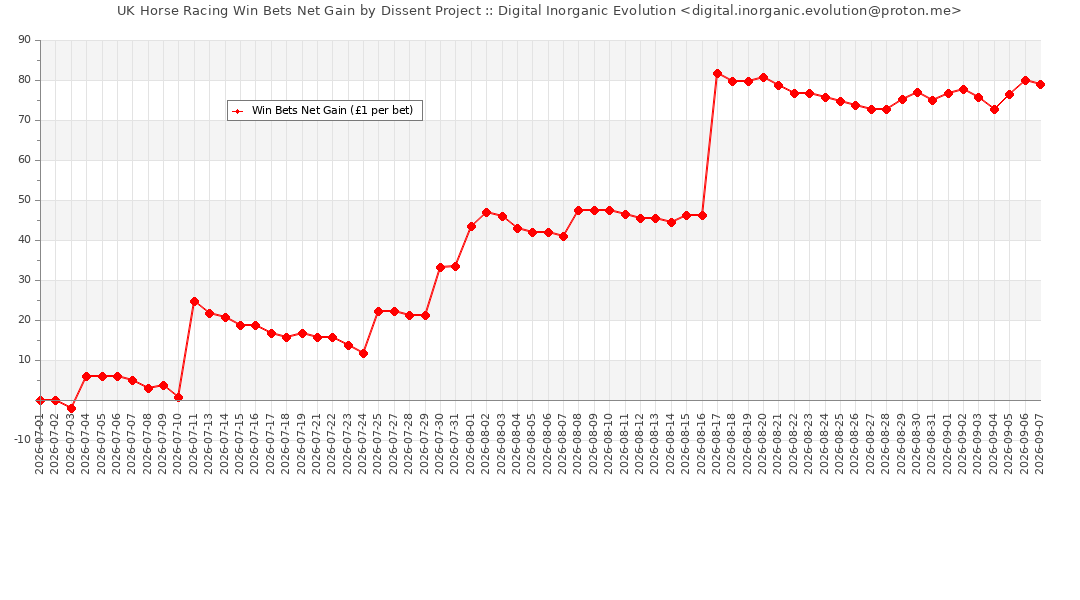
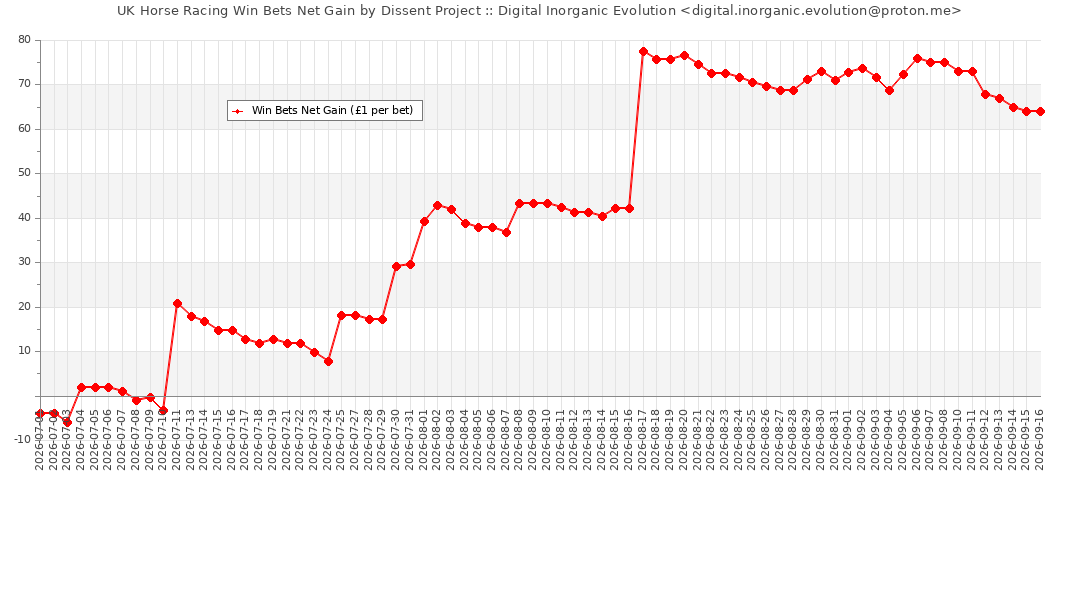
2026-09-16

diff --git a/dissent.html b/dissent.html
@@ -22,203 +22,240 @@
 <p>
 <h2>Betting Details</h2>
 	<table id='dissent-table' class='cell-border compact stripe nowrap' border=1><thead><tr><th>Date</th><th>Track</th><th>Time</th><th>Horse Name</th><th>Position</th><th>Win Dividend</th><th>Win Net Gain</th><tbody>
-<tr><td>2026-07-03</td><td>Sandown Park</td><td>1642</td><td>Arqoob</td><td>3</td><td>0</td><td>-1</td></tr>
+<tr><td>2026-07-01</td><td>Bath</td><td>2053</td><td>Sea Of Charm</td><td>6</td><td>0</td><td>-1</td></tr>
 
-<tr><td>2026-07-03</td><td>Beverley</td><td>1800</td><td>Speechman</td><td>3</td><td>0</td><td>-2</td></tr>
+<tr><td>2026-07-01</td><td>Epsom Downs</td><td>1857</td><td>Mr Freedom</td><td>8</td><td>0</td><td>-2</td></tr>
 
-<tr><td>2026-07-04</td><td>Beverley</td><td>1602</td><td>By The Book</td><td>2</td><td>0</td><td>-3</td></tr>
+<tr><td>2026-07-01</td><td>Epsom Downs</td><td>1932</td><td>Pablo Prince</td><td>7</td><td>0</td><td>-3</td></tr>
 
-<tr><td>2026-07-04</td><td>Nottingham</td><td>1930</td><td>Ikigai Star</td><td>5</td><td>0</td><td>-4</td></tr>
+<tr><td>2026-07-01</td><td>Epsom Downs</td><td>2007</td><td>Gearing's Point</td><td>4</td><td>0</td><td>-4</td></tr>
 
-<tr><td>2026-07-04</td><td>Carlisle</td><td>2009</td><td>Cascade Hall</td><td>4</td><td>0</td><td>-5</td></tr>
+<tr><td>2026-07-03</td><td>Beverley</td><td>1800</td><td>Speechman</td><td>3</td><td>0</td><td>-5</td></tr>
 
-<tr><td>2026-07-04</td><td>Newmarket</td><td>1440</td><td>Tiffany</td><td>2</td><td>0</td><td>-6</td></tr>
+<tr><td>2026-07-03</td><td>Sandown Park</td><td>1642</td><td>Arqoob</td><td>3</td><td>0</td><td>-6</td></tr>
 
-<tr><td>2026-07-04</td><td>Newmarket</td><td>1515</td><td>Sportingsilvermine</td><td>1</td><td>13</td><td>6</td></tr>
+<tr><td>2026-07-04</td><td>Nottingham</td><td>1930</td><td>Ikigai Star</td><td>5</td><td>0</td><td>-7</td></tr>
 
-<tr><td>2026-07-07</td><td>Wolverhampton</td><td>2040</td><td>Kingston Sunflower</td><td>6</td><td>0</td><td>5</td></tr>
+<tr><td>2026-07-04</td><td>Beverley</td><td>1602</td><td>By The Book</td><td>2</td><td>0</td><td>-8</td></tr>
 
-<tr><td>2026-07-08</td><td>Kempton Park</td><td>1913</td><td>Nunc Est Bibendum</td><td>2</td><td>0</td><td>4</td></tr>
+<tr><td>2026-07-04</td><td>Newmarket</td><td>1440</td><td>Tiffany</td><td>2</td><td>0</td><td>-9</td></tr>
 
-<tr><td>2026-07-08</td><td>Catterick Bridge</td><td>1600</td><td>Speechman</td><td>2</td><td>0</td><td>3</td></tr>
+<tr><td>2026-07-04</td><td>Newmarket</td><td>1515</td><td>Sportingsilvermine</td><td>1</td><td>13</td><td>3</td></tr>
 
-<tr><td>2026-07-09</td><td>Newmarket</td><td>1535</td><td>Rebel's Romance</td><td>1</td><td>1.73</td><td>3.73</td></tr>
+<tr><td>2026-07-04</td><td>Carlisle</td><td>2009</td><td>Cascade Hall</td><td>4</td><td>0</td><td>2</td></tr>
 
-<tr><td>2026-07-10</td><td>Ascot</td><td>1623</td><td>Incensed</td><td>5</td><td>0</td><td>2.73</td></tr>
+<tr><td>2026-07-07</td><td>Wolverhampton</td><td>2040</td><td>Kingston Sunflower</td><td>6</td><td>0</td><td>1</td></tr>
 
-<tr><td>2026-07-10</td><td>Newmarket</td><td>1500</td><td>Asgard's Captain</td><td>6</td><td>0</td><td>1.73</td></tr>
+<tr><td>2026-07-08</td><td>Kempton Park</td><td>1913</td><td>Nunc Est Bibendum</td><td>2</td><td>0</td><td>0</td></tr>
 
-<tr><td>2026-07-10</td><td>York</td><td>1740</td><td>Pleasant Man</td><td>8</td><td>0</td><td>0.73</td></tr>
+<tr><td>2026-07-08</td><td>Catterick Bridge</td><td>1600</td><td>Speechman</td><td>2</td><td>0</td><td>-1</td></tr>
 
-<tr><td>2026-07-11</td><td>Ascot</td><td>1534</td><td>Fireblade</td><td>2</td><td>0</td><td>-0.27</td></tr>
+<tr><td>2026-07-09</td><td>Newmarket</td><td>1535</td><td>Rebel's Romance</td><td>1</td><td>1.73</td><td>-0.27</td></tr>
 
-<tr><td>2026-07-11</td><td>Chester</td><td>1700</td><td>Fast Fred</td><td>2</td><td>0</td><td>-1.27</td></tr>
+<tr><td>2026-07-10</td><td>Ascot</td><td>1623</td><td>Incensed</td><td>5</td><td>0</td><td>-1.27</td></tr>
 
-<tr><td>2026-07-11</td><td>York</td><td>1655</td><td>Mount Atlas</td><td>1</td><td>3.1</td><td>0.83</td></tr>
+<tr><td>2026-07-10</td><td>Newmarket</td><td>1500</td><td>Asgard's Captain</td><td>6</td><td>0</td><td>-2.27</td></tr>
 
-<tr><td>2026-07-11</td><td>York</td><td>1620</td><td>Trojan Sun</td><td>3</td><td>0</td><td>-0.17</td></tr>
+<tr><td>2026-07-10</td><td>York</td><td>1740</td><td>Pleasant Man</td><td>8</td><td>0</td><td>-3.27</td></tr>
 
-<tr><td>2026-07-11</td><td>Ascot</td><td>1612</td><td>Tryfan</td><td>1</td><td>27</td><td>25.83</td></tr>
+<tr><td>2026-07-11</td><td>Newmarket</td><td>1745</td><td>First Officer</td><td>2</td><td>0</td><td>-4.27</td></tr>
 
-<tr><td>2026-07-11</td><td>Newmarket</td><td>1745</td><td>First Officer</td><td>2</td><td>0</td><td>24.83</td></tr>
+<tr><td>2026-07-11</td><td>Ascot</td><td>1534</td><td>Fireblade</td><td>2</td><td>0</td><td>-5.27</td></tr>
 
-<tr><td>2026-07-13</td><td>Ayr</td><td>1705</td><td>Simple Star</td><td>5</td><td>0</td><td>23.83</td></tr>
+<tr><td>2026-07-11</td><td>Ascot</td><td>1612</td><td>Tryfan</td><td>1</td><td>27</td><td>20.73</td></tr>
 
-<tr><td>2026-07-13</td><td>Lingfield</td><td>1740</td><td>Educator</td><td>3</td><td>0</td><td>22.83</td></tr>
+<tr><td>2026-07-11</td><td>York</td><td>1620</td><td>Trojan Sun</td><td>3</td><td>0</td><td>19.73</td></tr>
 
-<tr><td>2026-07-13</td><td>Lingfield</td><td>2040</td><td>Douglas Dc</td><td>5</td><td>0</td><td>21.83</td></tr>
+<tr><td>2026-07-11</td><td>York</td><td>1655</td><td>Mount Atlas</td><td>1</td><td>3.1</td><td>21.83</td></tr>
 
-<tr><td>2026-07-14</td><td>Ffos Las</td><td>1714</td><td>Meet Me In Meraki</td><td>2</td><td>0</td><td>20.83</td></tr>
+<tr><td>2026-07-11</td><td>Chester</td><td>1700</td><td>Fast Fred</td><td>2</td><td>0</td><td>20.83</td></tr>
 
-<tr><td>2026-07-15</td><td>Catterick Bridge</td><td>1410</td><td>Made All</td><td>3</td><td>0</td><td>19.83</td></tr>
+<tr><td>2026-07-13</td><td>Ayr</td><td>1705</td><td>Simple Star</td><td>5</td><td>0</td><td>19.83</td></tr>
 
-<tr><td>2026-07-15</td><td>Bath</td><td>1631</td><td>Hope Rising</td><td>4</td><td>0</td><td>18.83</td></tr>
+<tr><td>2026-07-13</td><td>Lingfield</td><td>1740</td><td>Educator</td><td>3</td><td>0</td><td>18.83</td></tr>
 
-<tr><td>2026-07-17</td><td>Nottingham</td><td>1527</td><td>Merrijig</td><td>3</td><td>0</td><td>17.83</td></tr>
+<tr><td>2026-07-13</td><td>Lingfield</td><td>2040</td><td>Douglas Dc</td><td>5</td><td>0</td><td>17.83</td></tr>
 
-<tr><td>2026-07-17</td><td>Pontefract</td><td>1800</td><td>Balqaa</td><td>4</td><td>0</td><td>16.83</td></tr>
+<tr><td>2026-07-14</td><td>Ffos Las</td><td>1714</td><td>Meet Me In Meraki</td><td>2</td><td>0</td><td>16.83</td></tr>
 
-<tr><td>2026-07-18</td><td>Ripon</td><td>1515</td><td>Star Harbour</td><td>5</td><td>0</td><td>15.83</td></tr>
+<tr><td>2026-07-15</td><td>Bath</td><td>1631</td><td>Hope Rising</td><td>4</td><td>0</td><td>15.83</td></tr>
 
-<tr><td>2026-07-19</td><td>Redcar</td><td>1458</td><td>Billy Bathgate</td><td>1</td><td>2</td><td>16.83</td></tr>
+<tr><td>2026-07-15</td><td>Catterick Bridge</td><td>1410</td><td>Made All</td><td>3</td><td>0</td><td>14.83</td></tr>
 
-<tr><td>2026-07-21</td><td>Wolverhampton</td><td>1800</td><td>Three Yorkshiremen</td><td>7</td><td>0</td><td>15.83</td></tr>
+<tr><td>2026-07-17</td><td>Nottingham</td><td>1527</td><td>Merrijig</td><td>3</td><td>0</td><td>13.83</td></tr>
 
-<tr><td>2026-07-23</td><td>Yarmouth</td><td>1924</td><td>Twilight Guest</td><td>4</td><td>0</td><td>14.83</td></tr>
+<tr><td>2026-07-17</td><td>Pontefract</td><td>1800</td><td>Balqaa</td><td>4</td><td>0</td><td>12.83</td></tr>
 
-<tr><td>2026-07-23</td><td>Newbury</td><td>1940</td><td>Golden Flame</td><td>3</td><td>0</td><td>13.83</td></tr>
+<tr><td>2026-07-18</td><td>Ripon</td><td>1515</td><td>Star Harbour</td><td>5</td><td>0</td><td>11.83</td></tr>
 
-<tr><td>2026-07-24</td><td>Sandown Park</td><td>1820</td><td>Laravie</td><td>4</td><td>0</td><td>12.83</td></tr>
+<tr><td>2026-07-19</td><td>Redcar</td><td>1458</td><td>Billy Bathgate</td><td>1</td><td>2</td><td>12.83</td></tr>
 
-<tr><td>2026-07-24</td><td>Thirsk</td><td>1653</td><td>Max Of Stars</td><td>4</td><td>0</td><td>11.83</td></tr>
+<tr><td>2026-07-21</td><td>Wolverhampton</td><td>1800</td><td>Three Yorkshiremen</td><td>7</td><td>0</td><td>11.83</td></tr>
 
-<tr><td>2026-07-25</td><td>York</td><td>1617</td><td>Humble Spark</td><td>6</td><td>0</td><td>10.83</td></tr>
+<tr><td>2026-07-23</td><td>Yarmouth</td><td>1924</td><td>Twilight Guest</td><td>4</td><td>0</td><td>10.83</td></tr>
 
-<tr><td>2026-07-25</td><td>Ascot</td><td>1610</td><td>Primo Lara</td><td>1</td><td>5.85</td><td>15.68</td></tr>
+<tr><td>2026-07-23</td><td>Newbury</td><td>1940</td><td>Golden Flame</td><td>3</td><td>0</td><td>9.83</td></tr>
 
-<tr><td>2026-07-25</td><td>Ascot</td><td>1535</td><td>Kalpana</td><td>1</td><td>7.5</td><td>22.18</td></tr>
+<tr><td>2026-07-24</td><td>Sandown Park</td><td>1820</td><td>Laravie</td><td>4</td><td>0</td><td>8.83</td></tr>
 
-<tr><td>2026-07-28</td><td>Yarmouth</td><td>1435</td><td>Baltic</td><td>2</td><td>0</td><td>21.18</td></tr>
+<tr><td>2026-07-24</td><td>Thirsk</td><td>1653</td><td>Max Of Stars</td><td>4</td><td>0</td><td>7.83</td></tr>
 
-<tr><td>2026-07-30</td><td>Nottingham</td><td>1620</td><td>Beggarman</td><td>2</td><td>0</td><td>20.18</td></tr>
+<tr><td>2026-07-25</td><td>Ascot</td><td>1535</td><td>Kalpana</td><td>1</td><td>7.5</td><td>14.33</td></tr>
 
-<tr><td>2026-07-30</td><td>Epsom Downs</td><td>1840</td><td>Dream Harder</td><td>1</td><td>14</td><td>33.18</td></tr>
+<tr><td>2026-07-25</td><td>Ascot</td><td>1610</td><td>Primo Lara</td><td>1</td><td>5.85</td><td>19.18</td></tr>
 
-<tr><td>2026-07-31</td><td>Bath</td><td>1735</td><td>Sea Of Charm</td><td>2</td><td>0</td><td>32.18</td></tr>
+<tr><td>2026-07-25</td><td>York</td><td>1617</td><td>Humble Spark</td><td>6</td><td>0</td><td>18.18</td></tr>
 
-<tr><td>2026-07-31</td><td>Musselburgh</td><td>1745</td><td>Mr Withington</td><td>4</td><td>0</td><td>31.18</td></tr>
+<tr><td>2026-07-28</td><td>Yarmouth</td><td>1435</td><td>Baltic</td><td>2</td><td>0</td><td>17.18</td></tr>
 
-<tr><td>2026-07-31</td><td>Musselburgh</td><td>2025</td><td>Cascade Hall</td><td>3</td><td>0</td><td>30.18</td></tr>
+<tr><td>2026-07-30</td><td>Nottingham</td><td>1620</td><td>Beggarman</td><td>2</td><td>0</td><td>16.18</td></tr>
 
-<tr><td>2026-07-31</td><td>Goodwood</td><td>1350</td><td>Duke Of Oxford</td><td>15</td><td>0</td><td>29.18</td></tr>
+<tr><td>2026-07-30</td><td>Epsom Downs</td><td>1840</td><td>Dream Harder</td><td>1</td><td>14</td><td>29.18</td></tr>
 
-<tr><td>2026-07-31</td><td>Newcastle</td><td>1520</td><td>Ned Broy</td><td>1</td><td>5.4</td><td>33.58</td></tr>
+<tr><td>2026-07-31</td><td>Bath</td><td>1735</td><td>Sea Of Charm</td><td>2</td><td>0</td><td>28.18</td></tr>
 
-<tr><td>2026-08-01</td><td>Newmarket</td><td>1333</td><td>Orchard Keeper</td><td>5</td><td>0</td><td>32.58</td></tr>
+<tr><td>2026-07-31</td><td>Musselburgh</td><td>1745</td><td>Mr Withington</td><td>4</td><td>0</td><td>27.18</td></tr>
 
-<tr><td>2026-08-01</td><td>Newmarket</td><td>1558</td><td>Arqoob</td><td>1</td><td>11.8</td><td>43.38</td></tr>
+<tr><td>2026-07-31</td><td>Musselburgh</td><td>2025</td><td>Cascade Hall</td><td>3</td><td>0</td><td>26.18</td></tr>
 
-<tr><td>2026-08-02</td><td>Chester</td><td>1410</td><td>Charmaine</td><td>1</td><td>4.5</td><td>46.88</td></tr>
+<tr><td>2026-07-31</td><td>Goodwood</td><td>1350</td><td>Duke Of Oxford</td><td>15</td><td>0</td><td>25.18</td></tr>
 
-<tr><td>2026-08-03</td><td>Windsor</td><td>1800</td><td>Wrist Art</td><td>2</td><td>0</td><td>45.88</td></tr>
+<tr><td>2026-07-31</td><td>Newcastle</td><td>1520</td><td>Ned Broy</td><td>1</td><td>5.4</td><td>29.58</td></tr>
 
-<tr><td>2026-08-04</td><td>Lingfield</td><td>1918</td><td>Taritino</td><td>4</td><td>0</td><td>44.88</td></tr>
+<tr><td>2026-08-01</td><td>Newmarket</td><td>1333</td><td>Orchard Keeper</td><td>5</td><td>0</td><td>28.58</td></tr>
 
-<tr><td>2026-08-04</td><td>Catterick Bridge</td><td>1615</td><td>On The Bubble</td><td>4</td><td>0</td><td>43.88</td></tr>
+<tr><td>2026-08-01</td><td>Newmarket</td><td>1558</td><td>Arqoob</td><td>1</td><td>11.8</td><td>39.38</td></tr>
 
-<tr><td>2026-08-04</td><td>Catterick Bridge</td><td>1515</td><td>Lillistar</td><td>4</td><td>0</td><td>42.88</td></tr>
+<tr><td>2026-08-02</td><td>Chester</td><td>1410</td><td>Charmaine</td><td>1</td><td>4.5</td><td>42.88</td></tr>
 
-<tr><td>2026-08-05</td><td>Pontefract</td><td>1715</td><td>Something</td><td>3</td><td>0</td><td>41.88</td></tr>
+<tr><td>2026-08-03</td><td>Windsor</td><td>1800</td><td>Wrist Art</td><td>2</td><td>0</td><td>41.88</td></tr>
 
-<tr><td>2026-08-07</td><td>Haydock Park</td><td>1818</td><td>Made All</td><td>6</td><td>0</td><td>40.88</td></tr>
+<tr><td>2026-08-04</td><td>Lingfield</td><td>1918</td><td>Taritino</td><td>4</td><td>0</td><td>40.88</td></tr>
 
-<tr><td>2026-08-08</td><td>Ascot</td><td>1445</td><td>Asgard's Captain</td><td>1</td><td>7.5</td><td>47.38</td></tr>
+<tr><td>2026-08-04</td><td>Catterick Bridge</td><td>1515</td><td>Lillistar</td><td>4</td><td>0</td><td>39.88</td></tr>
 
-<tr><td>2026-08-11</td><td>Lingfield</td><td>1600</td><td>Charencey</td><td>3</td><td>0</td><td>46.38</td></tr>
+<tr><td>2026-08-04</td><td>Catterick Bridge</td><td>1615</td><td>On The Bubble</td><td>4</td><td>0</td><td>38.88</td></tr>
 
-<tr><td>2026-08-12</td><td>Ffos Las</td><td>1810</td><td>Meet Me In Meraki</td><td>5</td><td>0</td><td>45.38</td></tr>
+<tr><td>2026-08-05</td><td>Pontefract</td><td>1715</td><td>Something</td><td>3</td><td>0</td><td>37.88</td></tr>
 
-<tr><td>2026-08-14</td><td>Newmarket</td><td>2010</td><td>Tarbat Ness</td><td>3</td><td>0</td><td>44.38</td></tr>
+<tr><td>2026-08-07</td><td>Haydock Park</td><td>1818</td><td>Made All</td><td>6</td><td>0</td><td>36.88</td></tr>
 
-<tr><td>2026-08-15</td><td>Newbury</td><td>1325</td><td>Tabletalk</td><td>2</td><td>0</td><td>43.38</td></tr>
+<tr><td>2026-08-08</td><td>Ascot</td><td>1445</td><td>Asgard's Captain</td><td>1</td><td>7.5</td><td>43.38</td></tr>
 
-<tr><td>2026-08-15</td><td>Doncaster</td><td>1720</td><td>Is She Now</td><td>1</td><td>3.75</td><td>46.13</td></tr>
+<tr><td>2026-08-11</td><td>Lingfield</td><td>1600</td><td>Charencey</td><td>3</td><td>0</td><td>42.38</td></tr>
 
-<tr><td>2026-08-17</td><td>Wolverhampton</td><td>2010</td><td>Optician</td><td>9</td><td>0</td><td>45.13</td></tr>
+<tr><td>2026-08-12</td><td>Ffos Las</td><td>1810</td><td>Meet Me In Meraki</td><td>5</td><td>0</td><td>41.38</td></tr>
 
-<tr><td>2026-08-17</td><td>Catterick Bridge</td><td>1415</td><td>Stellarmasterpiece</td><td>1</td><td>4.5</td><td>48.63</td></tr>
+<tr><td>2026-08-14</td><td>Newmarket</td><td>2010</td><td>Tarbat Ness</td><td>3</td><td>0</td><td>40.38</td></tr>
 
-<tr><td>2026-08-17</td><td>Lingfield</td><td>1530</td><td>Regally Blonde</td><td>1</td><td>34</td><td>81.63</td></tr>
+<tr><td>2026-08-15</td><td>Newbury</td><td>1325</td><td>Tabletalk</td><td>2</td><td>0</td><td>39.38</td></tr>
 
-<tr><td>2026-08-18</td><td>Chepstow</td><td>1415</td><td>Hope Rising</td><td>1</td><td>1.1</td><td>81.73</td></tr>
+<tr><td>2026-08-15</td><td>Doncaster</td><td>1720</td><td>Is She Now</td><td>1</td><td>3.75</td><td>42.13</td></tr>
 
-<tr><td>2026-08-18</td><td>Wolverhampton</td><td>2000</td><td>Kingdom Of Stars</td><td>5</td><td>0</td><td>80.73</td></tr>
+<tr><td>2026-08-17</td><td>Lingfield</td><td>1530</td><td>Regally Blonde</td><td>1</td><td>34</td><td>75.13</td></tr>
 
-<tr><td>2026-08-18</td><td>Lingfield</td><td>1430</td><td>Circuit Breaker</td><td>4</td><td>0</td><td>79.73</td></tr>
+<tr><td>2026-08-17</td><td>Wolverhampton</td><td>2010</td><td>Optician</td><td>9</td><td>0</td><td>74.13</td></tr>
 
-<tr><td>2026-08-20</td><td>York</td><td>1535</td><td>Kalpana</td><td>1</td><td>1.91</td><td>80.64</td></tr>
+<tr><td>2026-08-17</td><td>Catterick Bridge</td><td>1415</td><td>Stellarmasterpiece</td><td>1</td><td>4.5</td><td>77.63</td></tr>
 
-<tr><td>2026-08-21</td><td>Hamilton Park</td><td>1815</td><td>Lavender Hill Mob</td><td>4</td><td>0</td><td>79.64</td></tr>
+<tr><td>2026-08-18</td><td>Chepstow</td><td>1415</td><td>Hope Rising</td><td>1</td><td>1.1</td><td>77.73</td></tr>
 
-<tr><td>2026-08-21</td><td>York</td><td>1425</td><td>Illinois</td><td>2</td><td>0</td><td>78.64</td></tr>
+<tr><td>2026-08-18</td><td>Wolverhampton</td><td>2000</td><td>Kingdom Of Stars</td><td>5</td><td>0</td><td>76.73</td></tr>
 
-<tr><td>2026-08-22</td><td>Newmarket</td><td>1629</td><td>Goblet Of Fire</td><td>2</td><td>0</td><td>77.64</td></tr>
+<tr><td>2026-08-18</td><td>Lingfield</td><td>1430</td><td>Circuit Breaker</td><td>4</td><td>0</td><td>75.73</td></tr>
 
-<tr><td>2026-08-22</td><td>Chester</td><td>1440</td><td>Duraji</td><td>6</td><td>0</td><td>76.64</td></tr>
+<tr><td>2026-08-20</td><td>York</td><td>1535</td><td>Kalpana</td><td>1</td><td>1.91</td><td>76.64</td></tr>
 
-<tr><td>2026-08-24</td><td>Windsor</td><td>1818</td><td>Morcar</td><td>2</td><td>0</td><td>75.64</td></tr>
+<tr><td>2026-08-21</td><td>Hamilton Park</td><td>1815</td><td>Lavender Hill Mob</td><td>4</td><td>0</td><td>75.64</td></tr>
 
-<tr><td>2026-08-25</td><td>Musselburgh</td><td>1545</td><td>Cascade Hall</td><td>7</td><td>0</td><td>74.64</td></tr>
+<tr><td>2026-08-21</td><td>York</td><td>1425</td><td>Illinois</td><td>2</td><td>0</td><td>74.64</td></tr>
 
-<tr><td>2026-08-26</td><td>Wolverhampton</td><td>1530</td><td>V Power</td><td>5</td><td>0</td><td>73.64</td></tr>
+<tr><td>2026-08-22</td><td>Newmarket</td><td>1629</td><td>Goblet Of Fire</td><td>2</td><td>0</td><td>73.64</td></tr>
 
-<tr><td>2026-08-27</td><td>Southwell</td><td>2100</td><td>Currumbin</td><td>2</td><td>0</td><td>72.64</td></tr>
+<tr><td>2026-08-22</td><td>Chester</td><td>1440</td><td>Duraji</td><td>6</td><td>0</td><td>72.64</td></tr>
 
-<tr><td>2026-08-29</td><td>Goodwood</td><td>1435</td><td>Green Sky</td><td>3</td><td>0</td><td>71.64</td></tr>
+<tr><td>2026-08-24</td><td>Windsor</td><td>1818</td><td>Morcar</td><td>2</td><td>0</td><td>71.64</td></tr>
 
-<tr><td>2026-08-29</td><td>Beverley</td><td>1420</td><td>Valley Of Flowers</td><td>1</td><td>5.6</td><td>76.24</td></tr>
+<tr><td>2026-08-25</td><td>Musselburgh</td><td>1545</td><td>Cascade Hall</td><td>7</td><td>0</td><td>70.64</td></tr>
 
-<tr><td>2026-08-29</td><td>Chepstow</td><td>1915</td><td>Baileys Warrior</td><td>6</td><td>0</td><td>75.24</td></tr>
+<tr><td>2026-08-26</td><td>Wolverhampton</td><td>1530</td><td>V Power</td><td>5</td><td>0</td><td>69.64</td></tr>
 
-<tr><td>2026-08-30</td><td>Goodwood</td><td>1620</td><td>Maxident</td><td>1</td><td>2.75</td><td>76.99</td></tr>
+<tr><td>2026-08-27</td><td>Southwell</td><td>2100</td><td>Currumbin</td><td>2</td><td>0</td><td>68.64</td></tr>
 
-<tr><td>2026-08-31</td><td>Southwell</td><td>1407</td><td>Lednikov</td><td>5</td><td>0</td><td>75.99</td></tr>
+<tr><td>2026-08-29</td><td>Goodwood</td><td>1435</td><td>Green Sky</td><td>3</td><td>0</td><td>67.64</td></tr>
 
-<tr><td>2026-08-31</td><td>Epsom Downs</td><td>1535</td><td>Son Of Man</td><td>13</td><td>0</td><td>74.99</td></tr>
+<tr><td>2026-08-29</td><td>Beverley</td><td>1420</td><td>Valley Of Flowers</td><td>1</td><td>5.6</td><td>72.24</td></tr>
 
-<tr><td>2026-09-01</td><td>Lingfield</td><td>1620</td><td>Hope Rising</td><td>1</td><td>3.75</td><td>77.74</td></tr>
+<tr><td>2026-08-29</td><td>Chepstow</td><td>1915</td><td>Baileys Warrior</td><td>6</td><td>0</td><td>71.24</td></tr>
 
-<tr><td>2026-09-01</td><td>Brighton</td><td>1740</td><td>Foinix</td><td>4</td><td>0</td><td>76.74</td></tr>
+<tr><td>2026-08-30</td><td>Goodwood</td><td>1620</td><td>Maxident</td><td>1</td><td>2.75</td><td>72.99</td></tr>
 
-<tr><td>2026-09-02</td><td>Bath</td><td>1600</td><td>Basilette</td><td>2</td><td>0</td><td>75.74</td></tr>
+<tr><td>2026-08-31</td><td>Southwell</td><td>1407</td><td>Lednikov</td><td>5</td><td>0</td><td>71.99</td></tr>
 
-<tr><td>2026-09-02</td><td>Hamilton Park</td><td>1750</td><td>Perseus Way</td><td>1</td><td>3</td><td>77.74</td></tr>
+<tr><td>2026-08-31</td><td>Epsom Downs</td><td>1535</td><td>Son Of Man</td><td>13</td><td>0</td><td>70.99</td></tr>
 
-<tr><td>2026-09-03</td><td>Haydock Park</td><td>1330</td><td>Alpine Sierra</td><td>3</td><td>0</td><td>76.74</td></tr>
+<tr><td>2026-09-01</td><td>Lingfield</td><td>1620</td><td>Hope Rising</td><td>1</td><td>3.75</td><td>73.74</td></tr>
 
-<tr><td>2026-09-03</td><td>Newcastle</td><td>1524</td><td>It's All About You</td><td>3</td><td>0</td><td>75.74</td></tr>
+<tr><td>2026-09-01</td><td>Brighton</td><td>1740</td><td>Foinix</td><td>4</td><td>0</td><td>72.74</td></tr>
 
-<tr><td>2026-09-04</td><td>Haydock Park</td><td>1330</td><td>Dance Time</td><td>4</td><td>0</td><td>74.74</td></tr>
+<tr><td>2026-09-02</td><td>Bath</td><td>1600</td><td>Basilette</td><td>2</td><td>0</td><td>71.74</td></tr>
 
-<tr><td>2026-09-04</td><td>Haydock Park</td><td>1653</td><td>Yokohama</td><td>3</td><td>0</td><td>73.74</td></tr>
+<tr><td>2026-09-02</td><td>Hamilton Park</td><td>1750</td><td>Perseus Way</td><td>1</td><td>3</td><td>73.74</td></tr>
 
-<tr><td>2026-09-04</td><td>Kempton Park</td><td>2024</td><td>Educator</td><td>7</td><td>0</td><td>72.74</td></tr>
+<tr><td>2026-09-03</td><td>Haydock Park</td><td>1330</td><td>Alpine Sierra</td><td>3</td><td>0</td><td>72.74</td></tr>
 
-<tr><td>2026-09-05</td><td>Haydock Park</td><td>1505</td><td>Stressfree</td><td>4</td><td>0</td><td>71.74</td></tr>
+<tr><td>2026-09-03</td><td>Newcastle</td><td>1524</td><td>It's All About You</td><td>3</td><td>0</td><td>71.74</td></tr>
 
-<tr><td>2026-09-05</td><td>Kempton Park</td><td>1450</td><td>Constitution Hill</td><td>4</td><td>0</td><td>70.74</td></tr>
+<tr><td>2026-09-04</td><td>Haydock Park</td><td>1330</td><td>Dance Time</td><td>4</td><td>0</td><td>70.74</td></tr>
 
-<tr><td>2026-09-05</td><td>Newcastle</td><td>1610</td><td>Rubellite</td><td>1</td><td>6.7</td><td>76.44</td></tr>
+<tr><td>2026-09-04</td><td>Haydock Park</td><td>1653</td><td>Yokohama</td><td>3</td><td>0</td><td>69.74</td></tr>
 
-<tr><td>2026-09-06</td><td>York</td><td>1440</td><td>Moon Chime</td><td>1</td><td>4.5</td><td>79.94</td></tr>
+<tr><td>2026-09-04</td><td>Kempton Park</td><td>2024</td><td>Educator</td><td>7</td><td>0</td><td>68.74</td></tr>
 
-<tr><td>2026-09-07</td><td>Wolverhampton</td><td>1830</td><td>Robusto</td><td>3</td><td>0</td><td>78.94</td></tr>
+<tr><td>2026-09-05</td><td>Haydock Park</td><td>1505</td><td>Stressfree</td><td>4</td><td>0</td><td>67.74</td></tr>
+
+<tr><td>2026-09-05</td><td>Kempton Park</td><td>1450</td><td>Constitution Hill</td><td>4</td><td>0</td><td>66.74</td></tr>
+
+<tr><td>2026-09-05</td><td>Newcastle</td><td>1610</td><td>Rubellite</td><td>1</td><td>6.7</td><td>72.44</td></tr>
+
+<tr><td>2026-09-06</td><td>York</td><td>1440</td><td>Moon Chime</td><td>1</td><td>4.5</td><td>75.94</td></tr>
+
+<tr><td>2026-09-07</td><td>Wolverhampton</td><td>1830</td><td>Robusto</td><td>3</td><td>0</td><td>74.94</td></tr>
+
+<tr><td>2026-09-10</td><td>Epsom Downs</td><td>1542</td><td>Charmaine</td><td>6</td><td>0</td><td>73.94</td></tr>
+
+<tr><td>2026-09-11</td><td>Doncaster</td><td>1500</td><td>Berkshire Sundance</td><td>6</td><td>0</td><td>72.94</td></tr>
+
+<tr><td>2026-09-11</td><td>Doncaster</td><td>1535</td><td>Green Sky</td><td>8</td><td>0</td><td>71.94</td></tr>
+
+<tr><td>2026-09-11</td><td>Chester</td><td>1703</td><td>Cascade Hall</td><td>1</td><td>3</td><td>73.94</td></tr>
+
+<tr><td>2026-09-12</td><td>Bath</td><td>1320</td><td>Shahbaz</td><td>4</td><td>0</td><td>72.94</td></tr>
+
+<tr><td>2026-09-12</td><td>Chester</td><td>1405</td><td>Tribal Star</td><td>4</td><td>0</td><td>71.94</td></tr>
+
+<tr><td>2026-09-12</td><td>Chester</td><td>1742</td><td>Haveyoumissedme</td><td>8</td><td>0</td><td>70.94</td></tr>
+
+<tr><td>2026-09-12</td><td>Lingfield</td><td>1413</td><td>Hebridean Nomad</td><td>4</td><td>0</td><td>69.94</td></tr>
+
+<tr><td>2026-09-12</td><td>Musselburgh</td><td>1850</td><td>Simple Star</td><td>5</td><td>0</td><td>68.94</td></tr>
+
+<tr><td>2026-09-13</td><td>Bath</td><td>1515</td><td>Percy Jones</td><td>3</td><td>0</td><td>67.94</td></tr>
+
+<tr><td>2026-09-14</td><td>Windsor</td><td>1612</td><td>Great Bedwyn</td><td>5</td><td>0</td><td>66.94</td></tr>
+
+<tr><td>2026-09-14</td><td>Thirsk</td><td>1421</td><td>Pop The Question</td><td>9</td><td>0</td><td>65.94</td></tr>
+
+<tr><td>2026-09-15</td><td>Wolverhampton</td><td>2030</td><td>Sumatran Tiger</td><td>5</td><td>0</td><td>64.94</td></tr>
 </tbody></table>	<li><i>Enquiries: digital.inorganic.evolution@proton.me</i></li>
 	<hr>
 <p>
 <a href="https://github.com/Digital-Inorganic-Evolution/Digital-Inorganic-Evolution.github.io/commits/main/" target="_blank">Check Commits on GitHub</a>
 <p>
-<h4>Generated at HKT 2026-09-08 07:36:09</h4>
+<i>Research Disclaimer: Predictions published by the DISSENT (Digital Inorganic Evolution Research Project) are provided solely for research, educational, and model verification purposes. 
+They are intended to enable transparent evaluation of experimental results and are not betting advice, gambling recommendations, or financial advice. The project does not promote or encourage gambling. Any betting decisions made by individuals are entirely their own responsibility.</i>
+<p>
+<h4>Generated at HKT 2026-09-17 05:37:57</h4>
 	
 <script src="https://code.jquery.com/jquery-3.7.1.min.js"></script>
 <script type="text/javascript" src="https://cdn.datatables.net/2.3.7/js/dataTables.min.js"></script>  

diff --git a/shallow.html b/shallow.html
@@ -21,12 +21,15 @@
 <hr>
 <p>
 <h2>Betting Details</h2>
-	<table border=1><table id='shallow-table' class='cell-border compact stripe nowrap' border=1><thead><tr><th>RaceDate</th><th>RaceNo</th><th>H1HorseNo</th><th>H2HorseNo</th><th>H1Place</th><th>H2Place</th><th>Dividend Quinella</th></tr></thead><tbody><tr><td>2026-07-01</td><td>01</td><td>11</td><td>12</td><td>4</td><td>10</td><td>-10</td></tr><tr><td>2026-07-01</td><td>02</td><td>2</td><td>4</td><td>1</td><td>3</td><td>-10</td></tr><tr><td>2026-07-01</td><td>03</td><td>1</td><td>14</td><td>6</td><td>3</td><td>-10</td></tr><tr><td>2026-07-01</td><td>04</td><td>2</td><td>4</td><td>1</td><td>8</td><td>-10</td></tr><tr><td>2026-07-01</td><td>05</td><td>9</td><td>10</td><td>1</td><td>4</td><td>-10</td></tr><tr><td>2026-07-01</td><td>06</td><td>3</td><td>12</td><td>8</td><td>6</td><td>-10</td></tr><tr><td>2026-07-01</td><td>07</td><td>5</td><td>12</td><td>4</td><td>2</td><td>-10</td></tr><tr><td>2026-07-01</td><td>08</td><td>1</td><td>8</td><td>11</td><td>9</td><td>-10</td></tr><tr><td>2026-07-01</td><td>09</td><td>8</td><td>13</td><td>1</td><td>8</td><td>-10</td></tr><tr><td>2026-07-01</td><td>10</td><td>2</td><td>3</td><td><font color=red>2</font></td><td><font color=red>1</font></td><td><font color=red>207.00</font></td></tr><tr><td>2026-07-01</td><td>11</td><td>2</td><td>3</td><td>12</td><td>3</td><td>-10</td></tr><tr><td>2026-07-04</td><td>01</td><td>2</td><td>9</td><td>1</td><td>3</td><td>-10</td></tr><tr><td>2026-07-04</td><td>02</td><td>5</td><td>10</td><td>3</td><td>7</td><td>-10</td></tr><tr><td>2026-07-04</td><td>03</td><td>8</td><td>11</td><td>9</td><td>2</td><td>-10</td></tr><tr><td>2026-07-04</td><td>04</td><td>1</td><td>5</td><td>5</td><td>6</td><td>-10</td></tr><tr><td>2026-07-04</td><td>05</td><td>12</td><td>13</td><td>9</td><td>3</td><td>-10</td></tr><tr><td>2026-07-04</td><td>06</td><td>1</td><td>5</td><td>11</td><td>12</td><td>-10</td></tr><tr><td>2026-07-04</td><td>07</td><td>6</td><td>12</td><td>3</td><td>2</td><td>-10</td></tr><tr><td>2026-07-04</td><td>08</td><td>2</td><td>9</td><td>8</td><td>2</td><td>-10</td></tr><tr><td>2026-07-04</td><td>09</td><td>2</td><td>3</td><td>12</td><td>1</td><td>-10</td></tr><tr><td>2026-07-04</td><td>10</td><td>6</td><td>12</td><td>2</td><td>3</td><td>-10</td></tr><tr><td>2026-07-04</td><td>11</td><td>1</td><td>5</td><td><font color=red>1</font></td><td><font color=red>2</font></td><td><font color=red>122.50</font></td></tr><tr><td>2026-07-08</td><td>01</td><td>3</td><td>10</td><td>1</td><td>6</td><td>-10</td></tr><tr><td>2026-07-08</td><td>02</td><td>4</td><td>6</td><td>4</td><td>2</td><td>-10</td></tr><tr><td>2026-07-08</td><td>03</td><td>1</td><td>11</td><td>4</td><td>1</td><td>-10</td></tr><tr><td>2026-07-08</td><td>04</td><td>1</td><td>7</td><td><font color=red>1</font></td><td><font color=red>2</font></td><td><font color=red>198.00</font></td></tr><tr><td>2026-07-08</td><td>05</td><td>3</td><td>6</td><td>6</td><td>5</td><td>-10</td></tr><tr><td>2026-07-08</td><td>06</td><td>3</td><td>4</td><td><font color=red>2</font></td><td><font color=red>1</font></td><td><font color=red>48.00</font></td></tr><tr><td>2026-07-08</td><td>07</td><td>2</td><td>5</td><td>9</td><td>5</td><td>-10</td></tr><tr><td>2026-07-08</td><td>08</td><td>2</td><td>11</td><td>12</td><td>2</td><td>-10</td></tr><tr><td>2026-07-08</td><td>09</td><td>7</td><td>11</td><td>8</td><td>1</td><td>-10</td></tr><tr><td>2026-07-12</td><td>01</td><td>1</td><td>4</td><td>1</td><td>5</td><td>-10</td></tr><tr><td>2026-07-12</td><td>02</td><td>7</td><td>10</td><td>1</td><td>4</td><td>-10</td></tr><tr><td>2026-07-12</td><td>03</td><td>10</td><td>14</td><td>3</td><td>6</td><td>-10</td></tr><tr><td>2026-07-12</td><td>04</td><td>2</td><td>7</td><td>1</td><td>11</td><td>-10</td></tr><tr><td>2026-07-12</td><td>05</td><td>1</td><td>3</td><td>3</td><td>6</td><td>-10</td></tr><tr><td>2026-07-12</td><td>06</td><td>6</td><td>8</td><td>12</td><td>3</td><td>-10</td></tr><tr><td>2026-07-12</td><td>07</td><td>9</td><td>10</td><td>9</td><td>4</td><td>-10</td></tr><tr><td>2026-07-12</td><td>08</td><td>5</td><td>10</td><td>7</td><td>8</td><td>-10</td></tr><tr><td>2026-07-12</td><td>09</td><td>4</td><td>8</td><td>7</td><td>3</td><td>-10</td></tr><tr><td>2026-07-12</td><td>10</td><td>4</td><td>13</td><td><font color=red>2</font></td><td><font color=red>1</font></td><td><font color=red>424.00</font></td></tr><tr><td>2026-07-12</td><td>11</td><td>1</td><td>6</td><td>5</td><td>6</td><td>-10</td></tr><tr><td>2026-07-15</td><td>01</td><td>11</td><td>12</td><td>2</td><td>4</td><td>-10</td></tr><tr><td>2026-07-15</td><td>02</td><td>2</td><td>9</td><td>4</td><td>2</td><td>-10</td></tr><tr><td>2026-07-15</td><td>03</td><td>8</td><td>12</td><td>5</td><td>8</td><td>-10</td></tr><tr><td>2026-07-15</td><td>04</td><td>1</td><td>4</td><td>2</td><td>4</td><td>-10</td></tr><tr><td>2026-07-15</td><td>05</td><td>3</td><td>12</td><td>4</td><td>1</td><td>-10</td></tr><tr><td>2026-07-15</td><td>06</td><td>1</td><td>11</td><td>4</td><td>2</td><td>-10</td></tr><tr><td>2026-07-15</td><td>07</td><td>10</td><td>11</td><td>5</td><td>1</td><td>-10</td></tr><tr><td>2026-07-15</td><td>08</td><td>5</td><td>11</td><td>6</td><td>3</td><td>-10</td></tr><tr><td>2026-07-15</td><td>09</td><td>2</td><td>11</td><td>4</td><td>2</td><td>-10</td></tr><tr><td>2026-09-06</td><td>01</td><td>6</td><td>11</td><td>11</td><td>5</td><td>-10</td></tr><tr><td>2026-09-06</td><td>02</td><td>1</td><td>6</td><td>1</td><td>5</td><td>-10</td></tr><tr><td>2026-09-06</td><td>03</td><td>1</td><td>3</td><td>1</td><td>6</td><td>-10</td></tr><tr><td>2026-09-06</td><td>04</td><td>1</td><td>3</td><td>2</td><td>5</td><td>-10</td></tr><tr><td>2026-09-06</td><td>05</td><td>1</td><td>11</td><td>13</td><td>9</td><td>-10</td></tr><tr><td>2026-09-06</td><td>06</td><td>1</td><td>3</td><td><font color=red>1</font></td><td><font color=red>2</font></td><td><font color=red>153.50</font></td></tr><tr><td>2026-09-06</td><td>07</td><td>3</td><td>4</td><td>6</td><td>8</td><td>-10</td></tr><tr><td>2026-09-06</td><td>08</td><td>1</td><td>14</td><td>1</td><td>11</td><td>-10</td></tr><tr><td>2026-09-06</td><td>09</td><td>4</td><td>5</td><td>4</td><td>1</td><td>-10</td></tr><tr><td>2026-09-06</td><td>10</td><td>6</td><td>12</td><td>9</td><td>12</td><td>-10</td></tr></tbody></table></table><table border=1><tr><td>Num. Bets</td><td>Num. Quinella Win</td><td>Quinella Accuracy</td><td>Bet Total$</td><td>Quinella Win$</td><td>Ratio</td></tr><td>61</td><td>6</td><td>0.098</td><td>$610</td><td><font color=red>$1153 ($543)</font></td><td>0.89</td></tr><table border=1><hr>		<li><i>Enquiries: digital.inorganic.evolution@proton.me</i></li>
+	<table border=1><table id='shallow-table' class='cell-border compact stripe nowrap' border=1><thead><tr><th>RaceDate</th><th>RaceNo</th><th>H1HorseNo</th><th>H2HorseNo</th><th>H1Place</th><th>H2Place</th><th>Dividend Quinella</th></tr></thead><tbody><tr><td>2026-07-01</td><td>01</td><td>10</td><td>11</td><td>2</td><td>4</td><td>-10</td></tr><tr><td>2026-07-01</td><td>02</td><td>7</td><td>10</td><td>11</td><td>8</td><td>-10</td></tr><tr><td>2026-07-01</td><td>03</td><td>10</td><td>14</td><td>8</td><td>3</td><td>-10</td></tr><tr><td>2026-07-01</td><td>04</td><td>2</td><td>6</td><td>1</td><td>11</td><td>-10</td></tr><tr><td>2026-07-01</td><td>05</td><td>6</td><td>10</td><td>9</td><td>4</td><td>-10</td></tr><tr><td>2026-07-01</td><td>06</td><td>3</td><td>6</td><td>8</td><td>2</td><td>-10</td></tr><tr><td>2026-07-01</td><td>07</td><td>2</td><td>12</td><td>3</td><td>2</td><td>-10</td></tr><tr><td>2026-07-01</td><td>08</td><td>1</td><td>3</td><td>11</td><td>1</td><td>-10</td></tr><tr><td>2026-07-01</td><td>09</td><td>6</td><td>12</td><td>10</td><td>3</td><td>-10</td></tr><tr><td>2026-07-01</td><td>10</td><td>2</td><td>3</td><td><font color=red>2</font></td><td><font color=red>1</font></td><td><font color=red>207.00</font></td></tr><tr><td>2026-07-01</td><td>11</td><td>3</td><td>7</td><td>3</td><td>1</td><td>-10</td></tr><tr><td>2026-07-04</td><td>01</td><td>2</td><td>9</td><td>1</td><td>3</td><td>-10</td></tr><tr><td>2026-07-04</td><td>02</td><td>5</td><td>10</td><td>3</td><td>7</td><td>-10</td></tr><tr><td>2026-07-04</td><td>03</td><td>8</td><td>11</td><td>9</td><td>2</td><td>-10</td></tr><tr><td>2026-07-04</td><td>04</td><td>1</td><td>5</td><td>5</td><td>6</td><td>-10</td></tr><tr><td>2026-07-04</td><td>05</td><td>12</td><td>13</td><td>9</td><td>3</td><td>-10</td></tr><tr><td>2026-07-04</td><td>06</td><td>1</td><td>5</td><td>11</td><td>12</td><td>-10</td></tr><tr><td>2026-07-04</td><td>07</td><td>6</td><td>12</td><td>3</td><td>2</td><td>-10</td></tr><tr><td>2026-07-04</td><td>08</td><td>2</td><td>9</td><td>8</td><td>2</td><td>-10</td></tr><tr><td>2026-07-04</td><td>09</td><td>2</td><td>3</td><td>12</td><td>1</td><td>-10</td></tr><tr><td>2026-07-04</td><td>10</td><td>6</td><td>12</td><td>2</td><td>3</td><td>-10</td></tr><tr><td>2026-07-04</td><td>11</td><td>1</td><td>5</td><td><font color=red>1</font></td><td><font color=red>2</font></td><td><font color=red>122.50</font></td></tr><tr><td>2026-07-08</td><td>01</td><td>3</td><td>10</td><td>1</td><td>6</td><td>-10</td></tr><tr><td>2026-07-08</td><td>02</td><td>4</td><td>6</td><td>4</td><td>2</td><td>-10</td></tr><tr><td>2026-07-08</td><td>03</td><td>1</td><td>11</td><td>4</td><td>1</td><td>-10</td></tr><tr><td>2026-07-08</td><td>04</td><td>1</td><td>7</td><td><font color=red>1</font></td><td><font color=red>2</font></td><td><font color=red>198.00</font></td></tr><tr><td>2026-07-08</td><td>05</td><td>3</td><td>6</td><td>6</td><td>5</td><td>-10</td></tr><tr><td>2026-07-08</td><td>06</td><td>3</td><td>4</td><td><font color=red>2</font></td><td><font color=red>1</font></td><td><font color=red>48.00</font></td></tr><tr><td>2026-07-08</td><td>07</td><td>2</td><td>5</td><td>9</td><td>5</td><td>-10</td></tr><tr><td>2026-07-08</td><td>08</td><td>2</td><td>11</td><td>12</td><td>2</td><td>-10</td></tr><tr><td>2026-07-08</td><td>09</td><td>7</td><td>11</td><td>8</td><td>1</td><td>-10</td></tr><tr><td>2026-07-12</td><td>01</td><td>1</td><td>4</td><td>1</td><td>5</td><td>-10</td></tr><tr><td>2026-07-12</td><td>02</td><td>7</td><td>10</td><td>1</td><td>4</td><td>-10</td></tr><tr><td>2026-07-12</td><td>03</td><td>10</td><td>14</td><td>3</td><td>6</td><td>-10</td></tr><tr><td>2026-07-12</td><td>04</td><td>2</td><td>7</td><td>1</td><td>11</td><td>-10</td></tr><tr><td>2026-07-12</td><td>05</td><td>1</td><td>3</td><td>3</td><td>6</td><td>-10</td></tr><tr><td>2026-07-12</td><td>06</td><td>6</td><td>8</td><td>12</td><td>3</td><td>-10</td></tr><tr><td>2026-07-12</td><td>07</td><td>9</td><td>10</td><td>9</td><td>4</td><td>-10</td></tr><tr><td>2026-07-12</td><td>08</td><td>5</td><td>10</td><td>7</td><td>8</td><td>-10</td></tr><tr><td>2026-07-12</td><td>09</td><td>4</td><td>8</td><td>7</td><td>3</td><td>-10</td></tr><tr><td>2026-07-12</td><td>10</td><td>4</td><td>13</td><td><font color=red>2</font></td><td><font color=red>1</font></td><td><font color=red>424.00</font></td></tr><tr><td>2026-07-12</td><td>11</td><td>1</td><td>6</td><td>5</td><td>6</td><td>-10</td></tr><tr><td>2026-07-15</td><td>01</td><td>11</td><td>12</td><td>2</td><td>4</td><td>-10</td></tr><tr><td>2026-07-15</td><td>02</td><td>2</td><td>9</td><td>4</td><td>2</td><td>-10</td></tr><tr><td>2026-07-15</td><td>03</td><td>8</td><td>12</td><td>5</td><td>8</td><td>-10</td></tr><tr><td>2026-07-15</td><td>04</td><td>1</td><td>4</td><td>2</td><td>4</td><td>-10</td></tr><tr><td>2026-07-15</td><td>05</td><td>3</td><td>12</td><td>4</td><td>1</td><td>-10</td></tr><tr><td>2026-07-15</td><td>06</td><td>1</td><td>11</td><td>4</td><td>2</td><td>-10</td></tr><tr><td>2026-07-15</td><td>07</td><td>10</td><td>11</td><td>5</td><td>1</td><td>-10</td></tr><tr><td>2026-07-15</td><td>08</td><td>5</td><td>11</td><td>6</td><td>3</td><td>-10</td></tr><tr><td>2026-07-15</td><td>09</td><td>2</td><td>11</td><td>4</td><td>2</td><td>-10</td></tr><tr><td>2026-09-06</td><td>01</td><td>4</td><td>11</td><td>6</td><td>5</td><td>-10</td></tr><tr><td>2026-09-06</td><td>02</td><td>1</td><td>6</td><td>1</td><td>5</td><td>-10</td></tr><tr><td>2026-09-06</td><td>03</td><td>1</td><td>3</td><td>1</td><td>6</td><td>-10</td></tr><tr><td>2026-09-06</td><td>04</td><td>1</td><td>12</td><td>2</td><td>12</td><td>-10</td></tr><tr><td>2026-09-06</td><td>05</td><td>1</td><td>11</td><td>13</td><td>9</td><td>-10</td></tr><tr><td>2026-09-06</td><td>06</td><td>1</td><td>3</td><td><font color=red>1</font></td><td><font color=red>2</font></td><td><font color=red>153.50</font></td></tr><tr><td>2026-09-06</td><td>07</td><td>3</td><td>4</td><td>6</td><td>8</td><td>-10</td></tr><tr><td>2026-09-06</td><td>08</td><td>1</td><td>2</td><td><font color=red>1</font></td><td><font color=red>2</font></td><td><font color=red>177.50</font></td></tr><tr><td>2026-09-06</td><td>09</td><td>4</td><td>5</td><td>4</td><td>1</td><td>-10</td></tr><tr><td>2026-09-06</td><td>10</td><td>6</td><td>12</td><td>9</td><td>12</td><td>-10</td></tr><tr><td>2026-09-09</td><td>01</td><td>5</td><td>10</td><td>3</td><td>4</td><td>-10</td></tr><tr><td>2026-09-09</td><td>02</td><td>1</td><td>9</td><td>1</td><td>4</td><td>-10</td></tr><tr><td>2026-09-09</td><td>03</td><td>4</td><td>11</td><td>4</td><td>3</td><td>-10</td></tr><tr><td>2026-09-09</td><td>04</td><td>2</td><td>4</td><td>4</td><td>2</td><td>-10</td></tr><tr><td>2026-09-09</td><td>05</td><td>4</td><td>5</td><td>6</td><td>4</td><td>-10</td></tr><tr><td>2026-09-09</td><td>06</td><td>2</td><td>5</td><td>12</td><td>3</td><td>-10</td></tr><tr><td>2026-09-09</td><td>07</td><td>1</td><td>2</td><td><font color=red>1</font></td><td><font color=red>2</font></td><td><font color=red>224.00</font></td></tr><tr><td>2026-09-09</td><td>08</td><td>8</td><td>10</td><td>4</td><td>7</td><td>-10</td></tr><tr><td>2026-09-13</td><td>01</td><td>10</td><td>11</td><td>1</td><td>3</td><td>-10</td></tr><tr><td>2026-09-13</td><td>02</td><td>8</td><td>11</td><td>1</td><td>3</td><td>-10</td></tr><tr><td>2026-09-13</td><td>03</td><td>4</td><td>12</td><td>6</td><td>7</td><td>-10</td></tr><tr><td>2026-09-13</td><td>04</td><td>2</td><td>11</td><td>1</td><td>6</td><td>-10</td></tr><tr><td>2026-09-13</td><td>05</td><td>2</td><td>11</td><td>1</td><td>5</td><td>-10</td></tr><tr><td>2026-09-13</td><td>06</td><td>5</td><td>9</td><td>2</td><td>4</td><td>-10</td></tr><tr><td>2026-09-13</td><td>07</td><td>3</td><td>13</td><td>6</td><td>12</td><td>-10</td></tr><tr><td>2026-09-13</td><td>08</td><td>12</td><td>13</td><td>5</td><td>6</td><td>-10</td></tr><tr><td>2026-09-13</td><td>09</td><td>2</td><td>4</td><td>3</td><td>4</td><td>-10</td></tr><tr><td>2026-09-13</td><td>10</td><td>1</td><td>11</td><td>9</td><td>7</td><td>-10</td></tr><tr><td>2026-09-16</td><td>01</td><td>2</td><td>7</td><td>8</td><td>7</td><td>-10</td></tr><tr><td>2026-09-16</td><td>02</td><td>3</td><td>8</td><td><font color=red>1</font></td><td><font color=red>2</font></td><td><font color=red>110.50</font></td></tr><tr><td>2026-09-16</td><td>03</td><td>6</td><td>7</td><td><font color=red>2</font></td><td><font color=red>1</font></td><td><font color=red>179.50</font></td></tr><tr><td>2026-09-16</td><td>04</td><td>3</td><td>12</td><td>1</td><td>3</td><td>-10</td></tr><tr><td>2026-09-16</td><td>05</td><td>6</td><td>8</td><td>1</td><td>6</td><td>-10</td></tr><tr><td>2026-09-16</td><td>06</td><td>2</td><td>3</td><td>1</td><td>9</td><td>-10</td></tr><tr><td>2026-09-16</td><td>07</td><td>2</td><td>8</td><td>10</td><td>8</td><td>-10</td></tr><tr><td>2026-09-16</td><td>08</td><td>6</td><td>8</td><td>6</td><td>11</td><td>-10</td></tr></tbody></table></table><table border=1><tr><td>Num. Bets</td><td>Num. Quinella Win</td><td>Quinella Accuracy</td><td>Bet Total$</td><td>Quinella Win$</td><td>Ratio</td></tr><td>87</td><td>10</td><td>0.115</td><td>$870</td><td><font color=red>$1844.5 ($974.5)</font></td><td>1.12</td></tr><table border=1><hr>		<li><i>Enquiries: digital.inorganic.evolution@proton.me</i></li>
 		<hr>
 <p>
 <a href="https://github.com/Digital-Inorganic-Evolution/Digital-Inorganic-Evolution.github.io/commits/main/" target="_blank">Check Commits on GitHub</a>
 <p>
-<h4>Generated at HKT 2026-09-08 07:36:06</h4>
+<i>Research Disclaimer: Predictions published by the SHALLOW (Digital Inorganic Evolution Research Project) are provided solely for research, educational, and model verification purposes. 
+They are intended to enable transparent evaluation of experimental results and are not betting advice, gambling recommendations, or financial advice. The project does not promote or encourage gambling. Any betting decisions made by individuals are entirely their own responsibility.</i>
+<p>
+<h4>Generated at HKT 2026-09-17 05:37:54</h4>
 	
 <script src="https://code.jquery.com/jquery-3.7.1.min.js"></script>
 <script type="text/javascript" src="https://cdn.datatables.net/2.3.7/js/dataTables.min.js"></script>  
